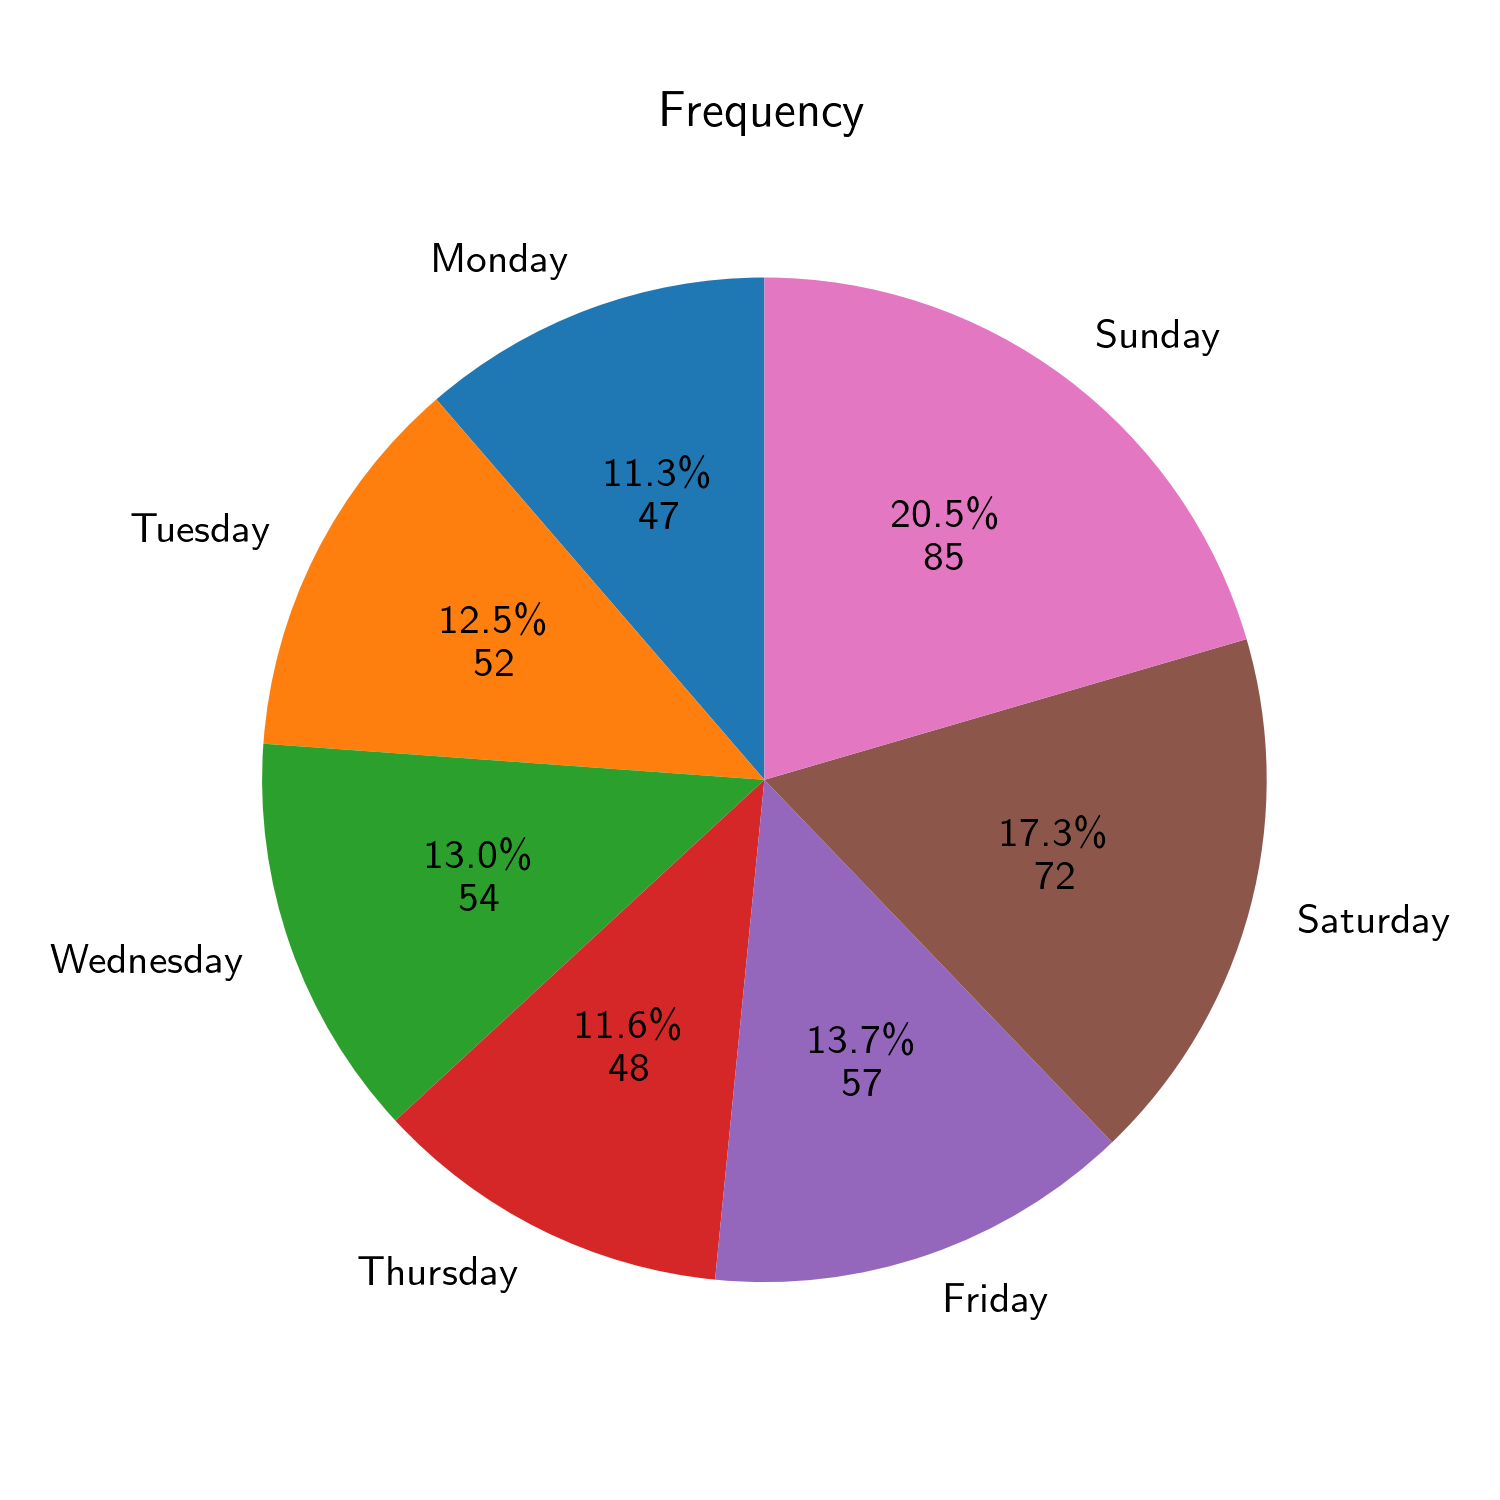
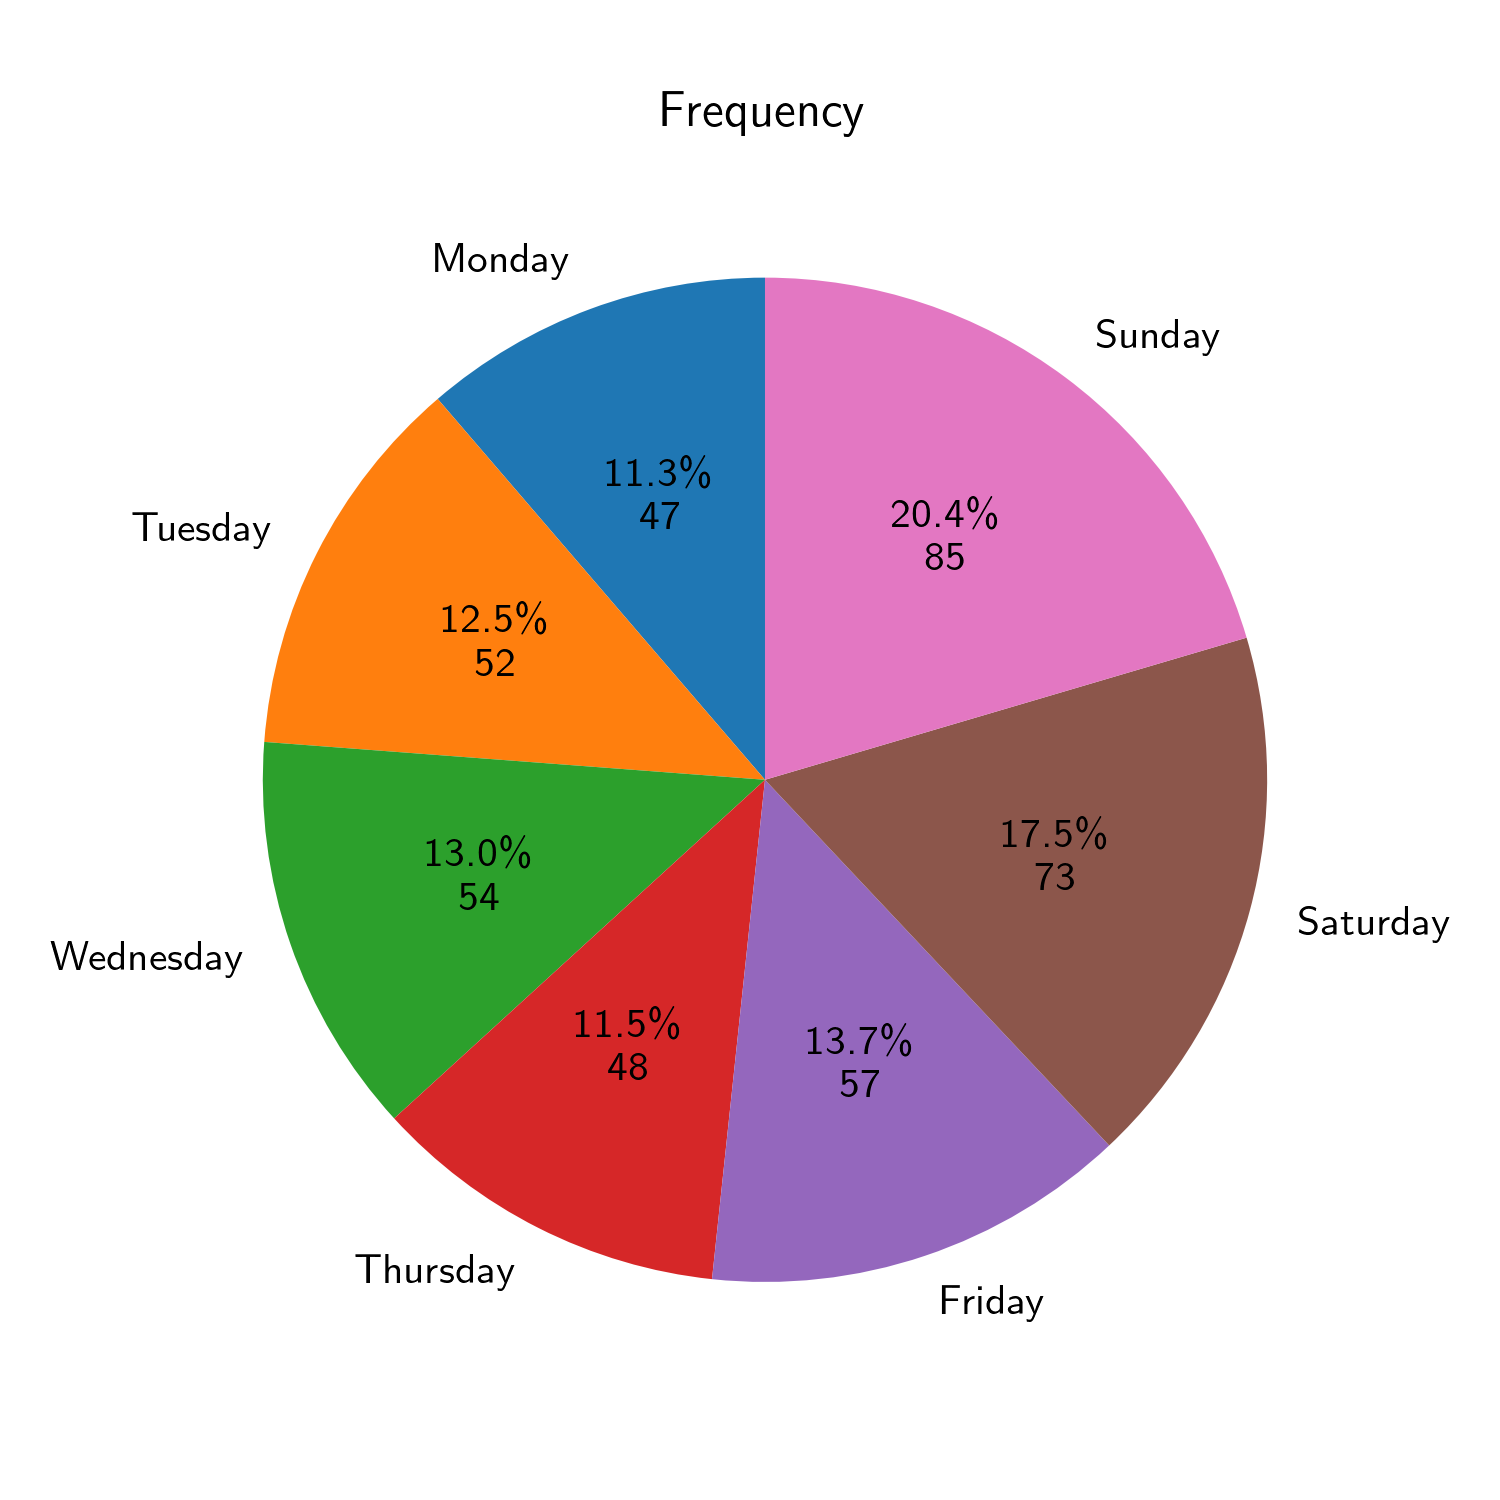
update data

diff --git a/README.md b/README.md
@@ -1,13 +1,13 @@
-last update: 13.10.2024, Sunday, time: 20:38  
+last update: 15.10.2024, Tuesday, time: 15:16  
 # Overview  
 || Whole | Half |  
 |---|---|---|  
-|Total $/ \textup{€}$|192.699 $\pm$ 55.009|109.354 $\pm$ 31.234|  
-|Ratio $/ \frac{\textup{€}}{\textup{h}}$| 4.512 $\pm$  0.784| 5.129 $\pm$  1.105|  
-|Cash $/ \textup{€}$|65.557 $\pm$ 34.865|43.607 $\pm$ 21.058|  
-|Cash $/ \\% $|41.328 $\pm$  8.372|43.982 $\pm$  9.854|  
-|Card $/ \textup{€}$|94.796 $\pm$ 52.436|56.617 $\pm$ 28.702|  
-|Card $/ \\% $|58.672 $\pm$  8.372|56.018 $\pm$  9.854|  
+|Total $/ \textup{€}$|192.922 $\pm$ 54.998|109.354 $\pm$ 31.234|  
+|Ratio $/ \frac{\textup{€}}{\textup{h}}$| 4.512 $\pm$  0.783| 5.129 $\pm$  1.105|  
+|Cash $/ \textup{€}$|65.614 $\pm$ 34.802|43.607 $\pm$ 21.058|  
+|Cash $/ \\% $|41.282 $\pm$  8.376|43.982 $\pm$  9.854|  
+|Card $/ \textup{€}$|95.100 $\pm$ 52.530|56.617 $\pm$ 28.702|  
+|Card $/ \\% $|58.718 $\pm$  8.376|56.018 $\pm$  9.854|  
 # Frequency  
     
 ![Image](./png/frequency.png)  
@@ -59,8 +59,8 @@ last update: 13.10.2024, Sunday, time: 20:38
 ||Ratio $/ \frac{\textup{€}}{\textup{h}}$|  4.12 $\pm$  0.64|  4.77 $\pm$  0.96|  
 |Friday|Total $/ \textup{€}$|195.97 $\pm$ 35.36|104.48 $\pm$ 25.23|  
 ||Ratio $/ \frac{\textup{€}}{\textup{h}}$|  4.42 $\pm$  0.73|  4.96 $\pm$  1.14|  
-|Saturday|Total $/ \textup{€}$|222.26 $\pm$ 44.44|117.47 $\pm$ 31.42|  
-||Ratio $/ \frac{\textup{€}}{\textup{h}}$|  4.58 $\pm$  0.64|  4.94 $\pm$  1.05|  
+|Saturday|Total $/ \textup{€}$|222.84 $\pm$ 44.02|117.47 $\pm$ 31.42|  
+||Ratio $/ \frac{\textup{€}}{\textup{h}}$|  4.58 $\pm$  0.63|  4.94 $\pm$  1.05|  
 |Sunday|Total $/ \textup{€}$|255.95 $\pm$ 45.84|138.03 $\pm$ 28.18|  
 ||Ratio $/ \frac{\textup{€}}{\textup{h}}$|  5.16 $\pm$  0.65|  5.49 $\pm$  1.09|  
 # Make me feel Special  
@@ -68,12 +68,12 @@ Special: Holidays and Weekends
 ## Whole day  
 ||Total $/ \textup{€}$|Ratio $/ \frac{\textup{€}}{\textup{h}}$|Count|  
 |---|---|---|---|  
-|All|192.70 $\pm$ 55.01|  4.51 $\pm$  0.78|234  
+|All|192.92 $\pm$ 55.00|  4.51 $\pm$  0.78|235  
 |Normal|167.00 $\pm$ 38.98|  4.31 $\pm$  0.75|152  
-|Weekend|240.34 $\pm$ 48.22|  4.89 $\pm$  0.71|82  
+|Weekend|240.39 $\pm$ 47.93|  4.89 $\pm$  0.70|83  
 |Holiday|183.40 $\pm$ 54.54|  4.43 $\pm$  0.82|63  
-|Special|213.48 $\pm$ 59.78|  4.67 $\pm$  0.79|126  
-|Special \& friday|211.33 $\pm$ 56.42|  4.64 $\pm$  0.79|151  
+|Special|213.73 $\pm$ 59.61|  4.67 $\pm$  0.79|127  
+|Special \& friday|211.55 $\pm$ 56.30|  4.64 $\pm$  0.78|152  
     
 ![Image](./png/special_whole.png)  
 ## Half day  
